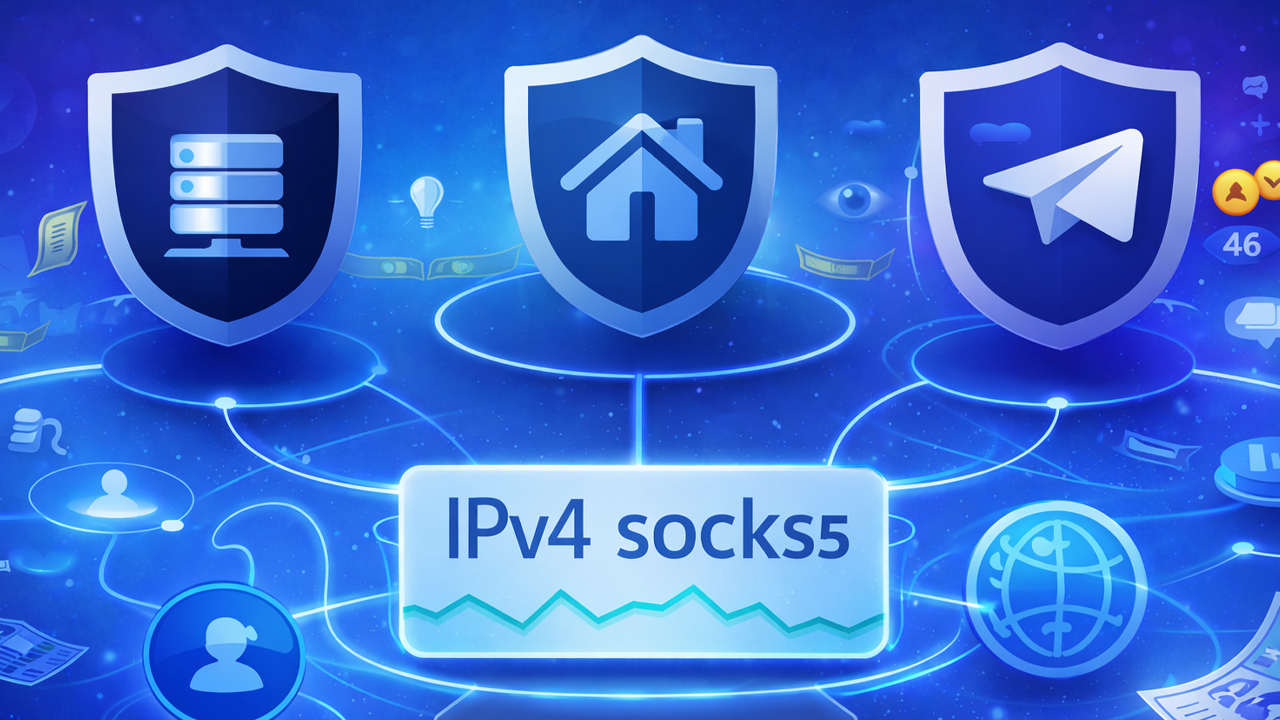
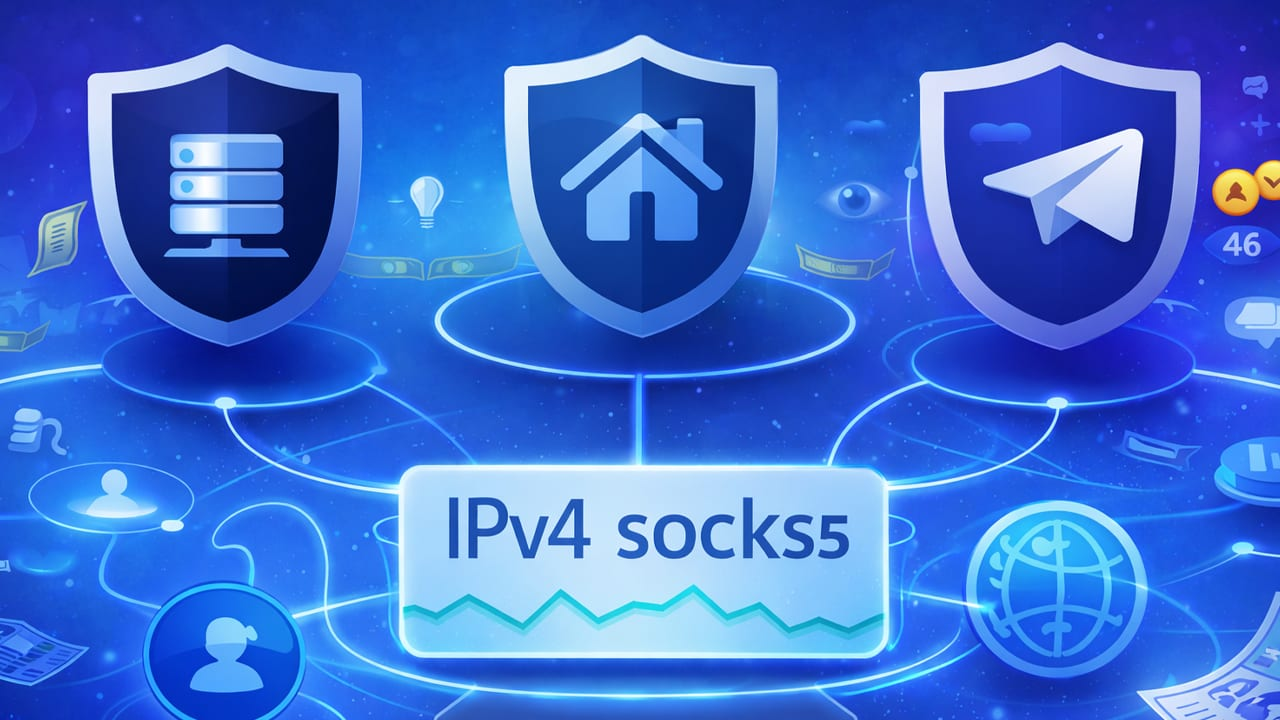
feat(home): surface the referral programme above the closing CTA
The only link to /referral-program was in the footer, which is past
the point most people stop scrolling. It now has a section of its own
on the home page, sitting between the FAQ and the closing CTA:
deliberately late, because someone still deciding whether to buy does
not care that they could earn on a referral, and putting it earlier
would compete with the decision the rest of the page is making.

Short by design — the 25% figure, one sentence on what it means and
where the link lives, and a button through to the full page.

Also picks up the three proxy-guide screenshots that scripts/
optimize-images.mjs could not touch on the last run (a file lock that
has since cleared); Vercel's own build had already compressed them, so
this only brings the committed copies in line with what production
has been serving.

diff --git a/guides/proxies-for-telegram-accounts.html b/guides/proxies-for-telegram-accounts.html
@@ -1023,10 +1023,10 @@
 <div class="g-toc panel" style="padding:16px 18px"><a href="#why-proxies-matter"><span class="g-toc-n">01</span><span class="g-toc-t">Why Proxies Matter &amp; The Three Core Types</span></a><a href="#rotation-trap"><span class="g-toc-n">02</span><span class="g-toc-t">The Rotation Trap: Static vs. Rotating</span></a><a href="#golden-rule-geo"><span class="g-toc-n">03</span><span class="g-toc-t">The Golden Rule: Exact GEO Matching</span></a><a href="#dataimpulse-setup"><span class="g-toc-n">04</span><span class="g-toc-t">Buying Mobile Proxies (DataImpulse Setup)</span></a><a href="#loading-proxies"><span class="g-toc-n">05</span><span class="g-toc-t">Loading Proxies into ATREOX</span></a><a href="#bandwidth-budgeting"><span class="g-toc-n">06</span><span class="g-toc-t">Bandwidth Consumption and Campaign Budgeting</span></a><a href="#faq"><span class="g-toc-n">07</span><span class="g-toc-t">Frequently Asked Questions (FAQ)</span></a></div>
 <h2 id="why-proxies-matter" style="font-family:"JetBrains Mono",monospace;font-weight:500;font-size:0.72rem;letter-spacing:0.2em;text-transform:uppercase;color:#fff;margin:38px 0 14px"><span style="display:inline-flex;align-items:center;justify-content:center;width:24px;height:24px;box-sizing:border-box;border-radius:3px;border:1px solid rgba(0,217,255,0.32);background:rgba(0,217,255,0.07);font-family:"JetBrains Mono",monospace;font-weight:600;font-size:0.58rem;color:#00d9ff;margin-right:11px;vertical-align:middle">01</span>Why Proxies Matter &amp; The Three Core Types</h2>
 <p class="g-p">Accounts without proxies are dead accounts before they even begin. If you attempt to connect fifty or a hundred Telegram accounts from a single server or home IP address, Telegram immediately identifies the entire cluster as an automated farm.</p>
-<figure class="g-fig"><picture><img src="/public/screenshots/proxies-for-telegram-accounts/connection.png" alt="Diagram showing a Telegram account connecting through a SOCKS5 proxy to the internet and then to the Telegram server" width="1280" height="472" loading="lazy" decoding="async"></picture><figcaption>One proxy, one account, one path to the Telegram server</figcaption></figure>
+<figure class="g-fig"><picture><source srcset="/public/screenshots/proxies-for-telegram-accounts/connection.webp" type="image/webp"><img src="/public/screenshots/proxies-for-telegram-accounts/connection.png" alt="Diagram showing a Telegram account connecting through a SOCKS5 proxy to the internet and then to the Telegram server" width="1280" height="472" loading="lazy" decoding="async"></picture><figcaption>One proxy, one account, one path to the Telegram server</figcaption></figure>
 <p class="g-p">One flag on a single account will instantly trigger a chain reaction, wiping out every session connected to that same IP address. This guide covers how to choose, buy, and connect the right proxies to ensure maximum account lifespan.</p>
 <p class="g-p">Search queries like &quot;best proxies for Telegram,&quot; &quot;Telegram SOCKS5,&quot; or &quot;cheap IPv4 for Telegram&quot; dominate the automation space for a reason. Proper proxy management directly dictates your account lifespan, ban frequency, operation speed, and capacity to scale.</p>
-<figure class="g-fig"><picture><img src="/public/screenshots/proxies-for-telegram-accounts/proxy.jpg" alt="Three shields representing datacenter, residential and mobile proxies, over an IPv4 SOCKS5 network illustration" width="1280" height="720" loading="lazy" decoding="async"></picture><figcaption>Datacenter, residential, mobile — three networks, three trust levels</figcaption></figure>
+<figure class="g-fig"><picture><source srcset="/public/screenshots/proxies-for-telegram-accounts/proxy.webp" type="image/webp"><img src="/public/screenshots/proxies-for-telegram-accounts/proxy.jpg" alt="Three shields representing datacenter, residential and mobile proxies, over an IPv4 SOCKS5 network illustration" width="1280" height="720" loading="lazy" decoding="async"></picture><figcaption>Datacenter, residential, mobile — three networks, three trust levels</figcaption></figure>
 <p class="g-p">There are three distinct categories of proxies. Understanding the difference is critical because choosing the wrong network type for your specific task guarantees instant failure.</p>
 <div class="g-tablewrap panel"><table class="g-table"><thead><tr><th scope="col">Type</th><th scope="col">What it is</th><th scope="col">Behavior in Telegram Automation</th><th scope="col">Pros</th><th scope="col">Cons</th></tr></thead><tbody><tr><td data-label="Type">Datacenter (IPv4)</td><td data-label="What it is">IPs from data centers or hosting servers. Fast, cheap, bought in bulk.</td><td data-label="Behavior in Telegram Automation">Good for low-risk tasks and mass scaling. However, aggressive actions (spam patterns, mass logins) trigger limits much faster here.</td><td data-label="Pros"><ul class="g-td-list"><li>Cheapest option.</li><li>Stable speed/ping.</li><li>Easy to scale.</li></ul></td><td data-label="Cons"><ul class="g-td-list"><li>IPs are often &quot;burned&quot; by previous users.</li><li>Lowest trust level.</li><li>High risk during heavy automation.</li></ul></td></tr><tr><td data-label="Type">Residential</td><td data-label="What it is">Real home internet IPs. Looks like a standard user connecting from an apartment.</td><td data-label="Behavior in Telegram Automation">Excellent for account warmup, careful activity, and mimicking real human behavior. Long lifespan if limits are respected.</td><td data-label="Pros"><ul class="g-td-list"><li>High trust score.</li><li>Great for safe logins.</li><li>Fewer blocks.</li></ul></td><td data-label="Cons"><ul class="g-td-list"><li>More expensive than Datacenter.</li><li>Speed can fluctuate.</li><li>Quality depends on the provider's pool.</li></ul></td></tr><tr><td data-label="Type">Mobile (4G/5G/LTE)</td><td data-label="What it is">Mobile carrier IPs. Shared dynamically among thousands of real cellular users.</td><td data-label="Behavior in Telegram Automation">The most &quot;alive&quot; and natural IP possible. Excellent for mimicking mobile app usage, but requires careful GEO management.</td><td data-label="Pros"><ul class="g-td-list"><li>Maximum natural trust.</li><li>Easy rotation.</li><li>Highest survival rate.</li></ul></td><td data-label="Cons"><ul class="g-td-list"><li>Most expensive.</li><li>Unstable ping.</li><li>Bad IP/Country jumps cause suspicion.</li></ul></td></tr></tbody></table></div>
 <p class="g-p">The Practical Logic (Simply Put):</p>
@@ -1045,7 +1045,7 @@
 <h2 id="loading-proxies" style="font-family:"JetBrains Mono",monospace;font-weight:500;font-size:0.72rem;letter-spacing:0.2em;text-transform:uppercase;color:#fff;margin:38px 0 14px"><span style="display:inline-flex;align-items:center;justify-content:center;width:24px;height:24px;box-sizing:border-box;border-radius:3px;border:1px solid rgba(0,217,255,0.32);background:rgba(0,217,255,0.07);font-family:"JetBrains Mono",monospace;font-weight:600;font-size:0.58rem;color:#00d9ff;margin-right:11px;vertical-align:middle">05</span>Loading Proxies into ATREOX</h2>
 <p class="g-p">We frequently hear from users who say, &quot;I bought proxies, they work in my browser, but my Telegram accounts won't connect in ATREOX!&quot; This is almost always due to incorrect formatting (using HTTP instead of SOCKS5) or dead SOCKS ports.</p>
 <p class="g-p">ATREOX simplifies network distribution, ensuring you never accidentally overlap connections.</p>
-<figure class="g-fig"><picture><img src="/public/screenshots/proxies-for-telegram-accounts/reassign.png" alt="ATREOX Reassign Proxies dialog pasting a distinct proxy per account with format detection" width="678" height="696" loading="lazy" decoding="async"></picture><figcaption>Reassign Proxies: one distinct proxy per account, or the whole request is rejected</figcaption></figure>
+<figure class="g-fig"><picture><source srcset="/public/screenshots/proxies-for-telegram-accounts/reassign.webp" type="image/webp"><img src="/public/screenshots/proxies-for-telegram-accounts/reassign.png" alt="ATREOX Reassign Proxies dialog pasting a distinct proxy per account with format detection" width="678" height="696" loading="lazy" decoding="async"></picture><figcaption>Reassign Proxies: one distinct proxy per account, or the whole request is rejected</figcaption></figure>
 <div class="g-cards"><div class="g-card"><span class="g-kicker">1. Manual Assignment (For Single Accounts)</span><ol class="g-steps"><li><p class="g-p">Open the Account Manager and click on the specific account.</p></li><li><p class="g-p">Navigate to the &quot;Proxies&quot; tab.</p></li><li><p class="g-p">Paste your connection string (e.g., ip:port:login:password).</p></li><li><p class="g-p">Click Save.</p></li></ol></div><div class="g-card"><span class="g-kicker">2. Bulk Reassignment (Proxy Pool)</span><p class="g-p">The Proxy Pool feature allows you to automatically distribute a large batch of proxies across hundreds of accounts in just two clicks.</p>
 <ol class="g-steps"><li><p class="g-p">Select your target accounts in the dashboard.</p></li><li><p class="g-p">Open the Reassign Proxies menu.</p></li><li><p class="g-p">Paste your entire list of proxies in bulk.</p></li></ol>
 <p class="g-p">The engine strictly enforces one distinct proxy per account. It never reuses a proxy across two accounts in the same call. Note: If you do not provide enough distinct proxies for your selected target accounts, the engine will reject the whole request to protect your cluster.</p></div></div>

diff --git a/home.jsx b/home.jsx
@@ -1521,6 +1521,51 @@ function SocialSection() {
 }
 
 /* ══════════════════════════════════════
+   Referral
+   Late on purpose. The page spends its length making the case for
+   buying; someone still deciding does not care that they could earn
+   on a referral, and saying so early competes with the decision.
+   Down here it reaches the people who have already read the whole
+   thing — and it is the only mention outside the footer, which is
+   where this used to live and where nobody reached it.
+══════════════════════════════════════ */
+function ReferralSection({ setPage }) {
+  const ref = useRef(null);
+  const inView = useInView(ref, { once: true, amount: 0.2 });
+  return (
+    <section ref={ref} className="section-block" style={{ padding: '0 5% 88px', maxWidth: 1280, margin: '0 auto' }}>
+      <motion.div initial={{ opacity: 0, y: 24 }} animate={inView ? { opacity: 1, y: 0 } : {}} transition={{ duration: 0.6 }}
+        className="panel ticks" style={{
+          padding: 'clamp(28px, 4vw, 40px) clamp(24px, 4vw, 40px)',
+          display: 'flex', gap: 'clamp(24px, 4vw, 48px)', alignItems: 'center', flexWrap: 'wrap',
+        }}>
+        <div style={{ flex: '0 0 auto', display: 'flex', alignItems: 'baseline', gap: 10 }}>
+          <span style={{ fontFamily: SERIF, fontWeight: 500, fontSize: 'clamp(2.6rem, 6vw, 3.6rem)', color: GREEN, lineHeight: 1, textShadow: `0 0 30px rgba(${GREEN_RGB},0.28)` }}>
+            25%
+          </span>
+          <span style={{ fontFamily: MONO, fontWeight: 400, fontSize: '0.64rem', letterSpacing: '0.14em', textTransform: 'uppercase', color: 'rgba(255,255,255,0.42)' }}>
+            recurring
+          </span>
+        </div>
+
+        <div style={{ flex: '1 1 320px', minWidth: 0 }}>
+          <span className="overline" style={{ display: 'block', marginBottom: 10 }}>{'// '}Referral programme</span>
+          <p style={{ fontFamily: 'Barlow, sans-serif', fontWeight: 300, fontSize: '0.95rem', color: 'rgba(255,255,255,0.62)', lineHeight: 1.7, maxWidth: 520 }}>
+            Share your link and earn 25% of whatever a customer you referred pays, for as long as they
+            stay subscribed. Your link is in Settings inside the panel.
+          </p>
+        </div>
+
+        <button type="button" className="btn-outline" onClick={() => setPage('referral')}
+          style={{ flex: '0 0 auto', padding: '14px 26px' }}>
+          How it works <ArrowUpRight size={14} />
+        </button>
+      </motion.div>
+    </section>
+  );
+}
+
+/* ══════════════════════════════════════
    CTA
 ══════════════════════════════════════ */
 function CtaBannerSection({ setPage }) {
@@ -1567,6 +1612,7 @@ function HomePage({ setPage }) {
       <TrustSection setPage={setPage} />
       <ComparisonSection />
       <FAQSection setPage={setPage} />
+      <ReferralSection setPage={setPage} />
       <CtaBannerSection setPage={setPage} />
       <CrossLinks current="home" setPage={setPage} />
       <div style={{ padding: '0 5% 60px' }}>
